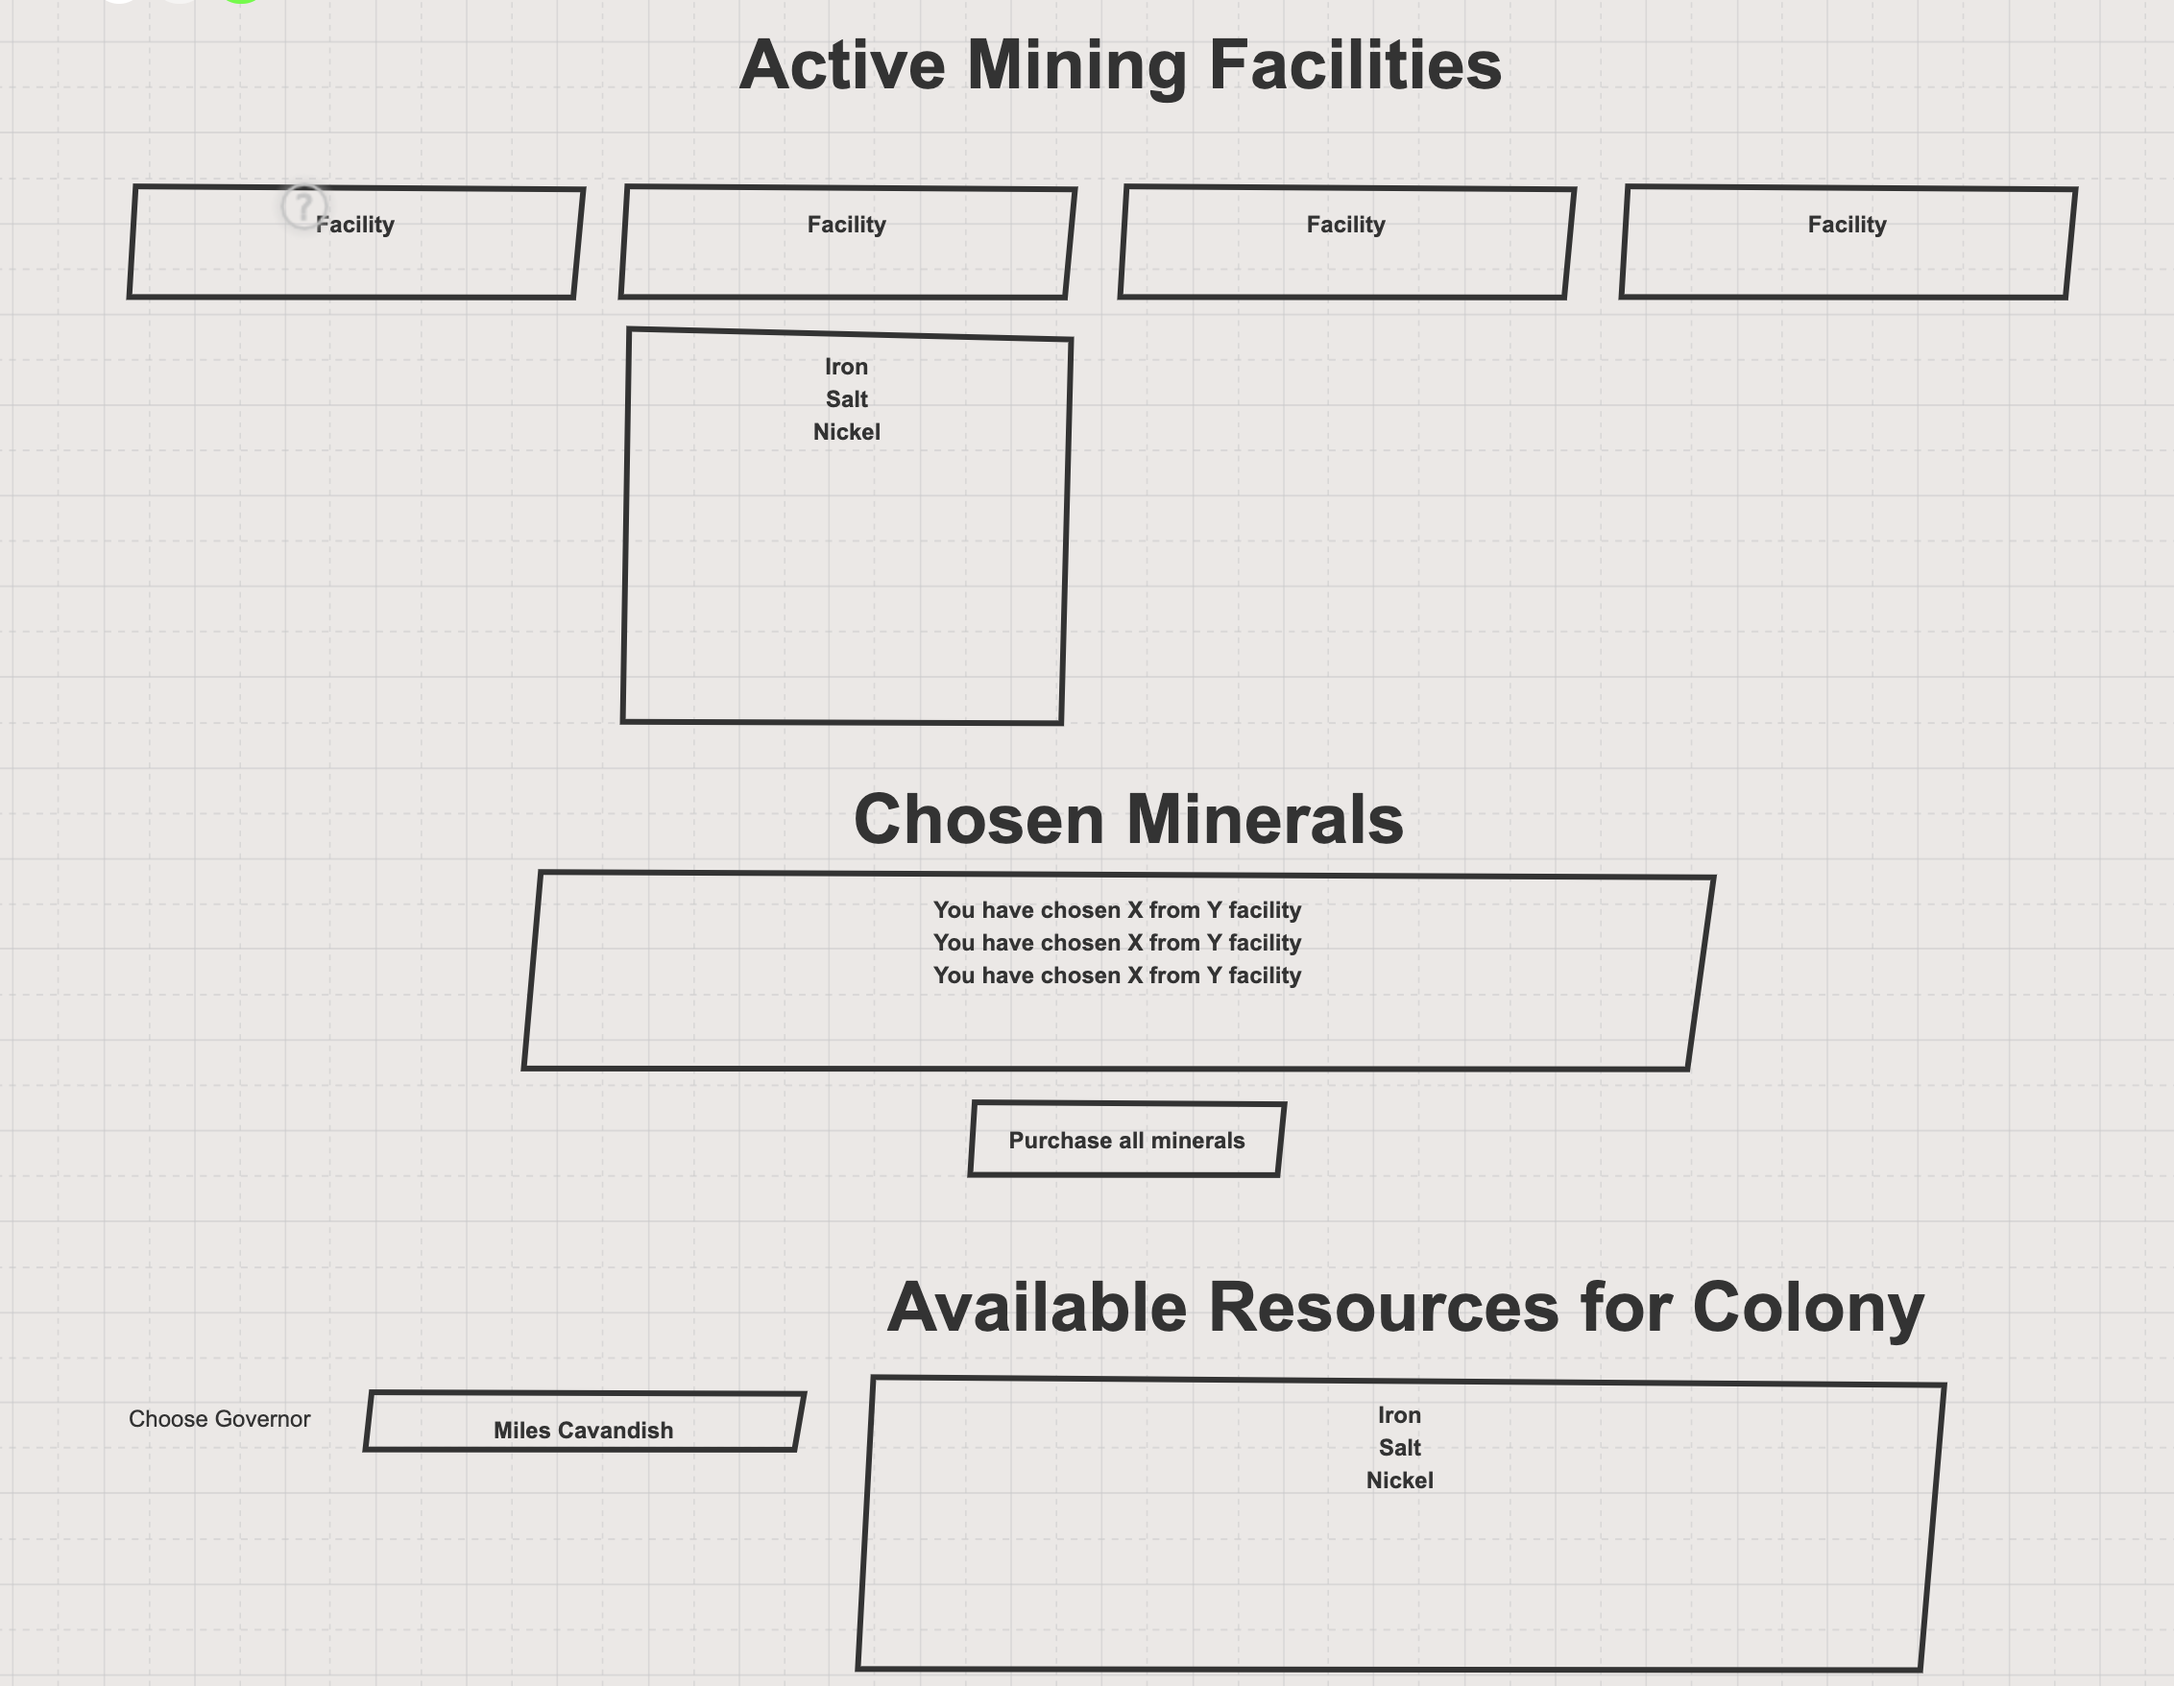
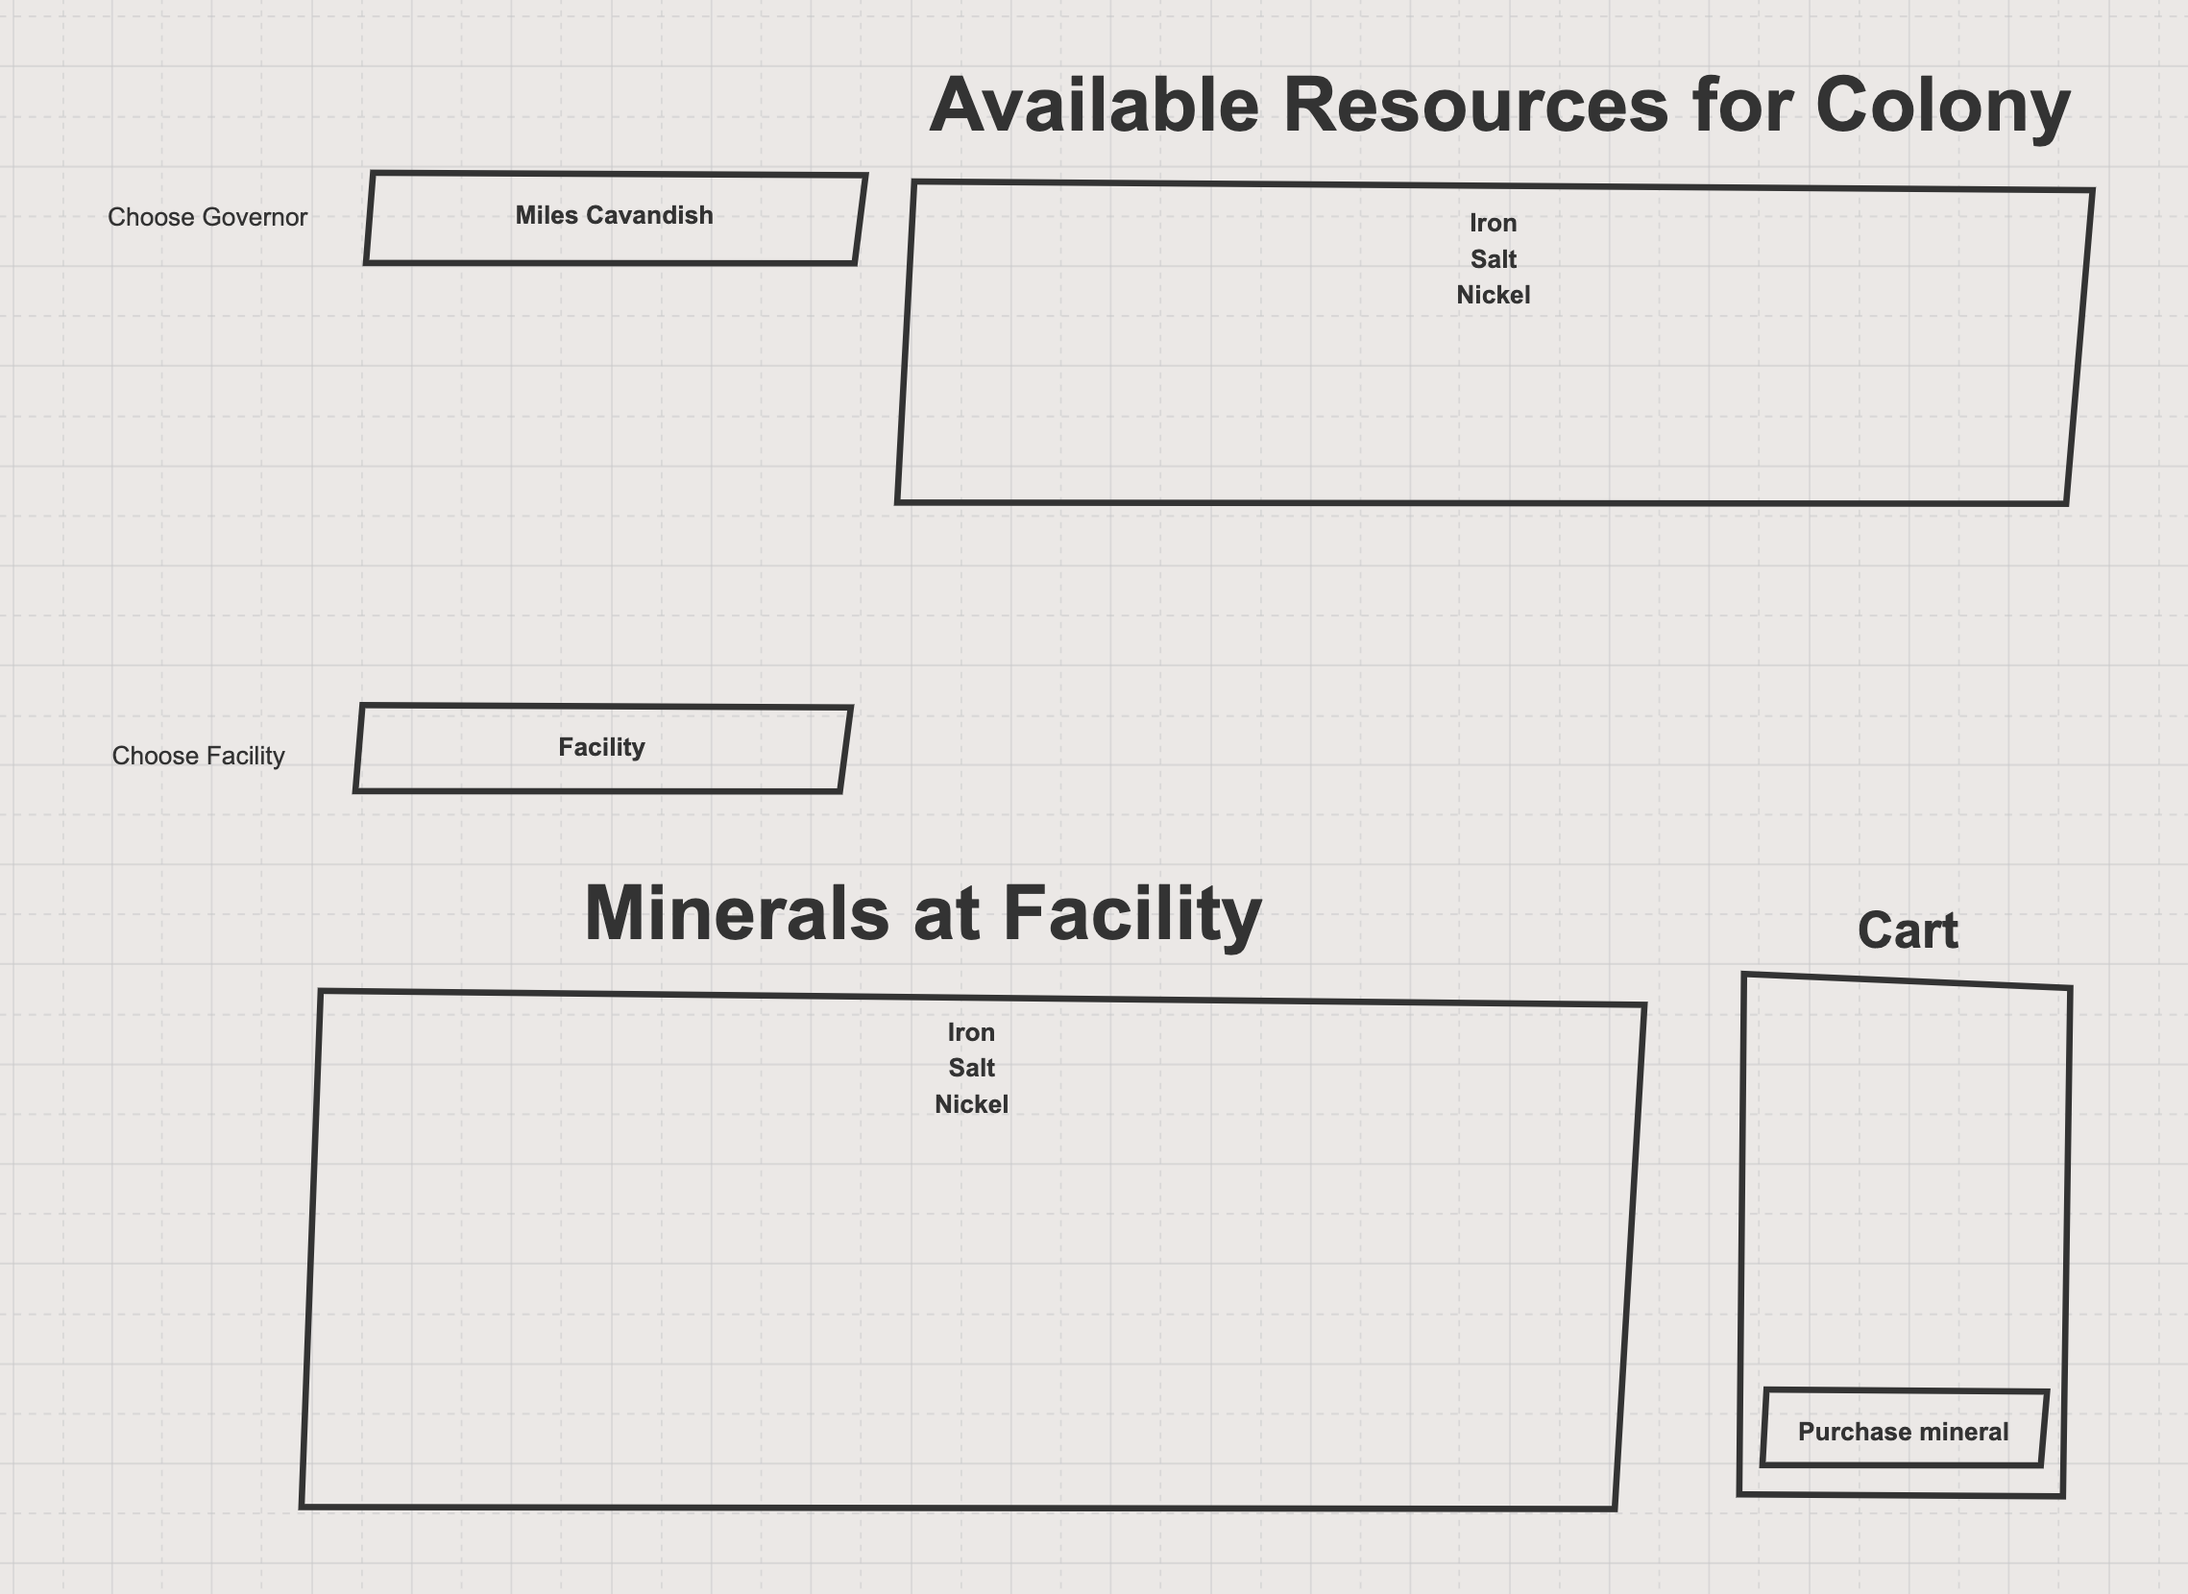
Updated wireframe and animation

diff --git a/scripts/database.js b/scripts/database.js
@@ -1,0 +1,20 @@
+const database = {
+    transientState: {}
+}
+
+export const setFacility = (facilityId) => {
+    database.transientState.selectedFacility = facilityId
+    document.dispatchEvent( new CustomEvent("stateChanged") )
+}
+
+export const getFacilities = () => {
+    return database.facilities.map(f => ({...f}))
+}
+
+export const purchaseMineral = () => {
+
+        // Broadcast custom event to entire documement so that the
+        // application can re-render and update state
+        document.dispatchEvent( new CustomEvent("stateChanged") )
+    }
+}

diff --git a/index.html b/index.html
@@ -1,0 +1,12 @@
+<!DOCTYPE html>
+<html lang="en">
+<head>
+    <meta charset="UTF-8">
+    <meta http-equiv="X-UA-Compatible" content="IE=edge">
+    <meta name="viewport" content="width=device-width, initial-scale=1.0">
+    <title>Exomine</title>
+</head>
+<body>
+
+</body>
+</html>

diff --git a/README.md b/README.md
@@ -2,6 +2,35 @@
 
 This project has you building an application that lets governors of different colonies in our Solar System purchase minerals from various mining facilities that human have established.
 
+## Learning Objectives
+
+Completing the project is not your objective. Your focus is to building the following skills and deepen your knowledge of the concepts.
+
+1. Collaboration (are you helping your team succeed)
+1. Productivity (are you wasting too much time before asking for help)
+1. Data types
+1. Data structures
+1. Navigating data relationships using primary keys and foreign keys
+
+Quote from previous student...
+
+> "This project has made me realize the importance of an ERD and quality design of your data structure and how to access that data."
+
+## Wireframe
+
+This is the general layout provided by your product owner. Please follow this guideline for your project's layout.
+
+![wireframe for project](./images/wireframe.png)
+
+
+## Workflow Animation
+
+This animation shows you the basic behavior of the application.
+
+![](./images/exomine.gif)
+
+## Data Relationships
+
 Below you can ready some basic information about the properties and relationships of the data you need for this application. There are several issue tickets created that tell you how the project should function. This project has been extensively planned by your project owner, and so you must build it to those specifications. Do not deviate from the definition of the features in the issue tickets.
 
 If you need clarification about the functionality, please contact your product owner. You do not have the authority to change the intended functionality defined in the tickets.
@@ -26,8 +55,6 @@ If a mining facility is inactive, then the button in the UI should never be enab
 
 Each mining facility can produce several kinds of minerals. Each mineral type can be produced at several mining facilities.
 
-## Wireframe
+## Working Deployed Example
 
-This is the general layout provided by your product owner. Please follow this guideline for your project's layout.
-
-![wireframe for project](./images/wireframe.png)
+You can visit the [Solar Mine](https://solar-mine.onrender.com/) application that has been built and deployed as an example application. Use all of your investigative skills with the Dev Tools to glean as much information as you can.
